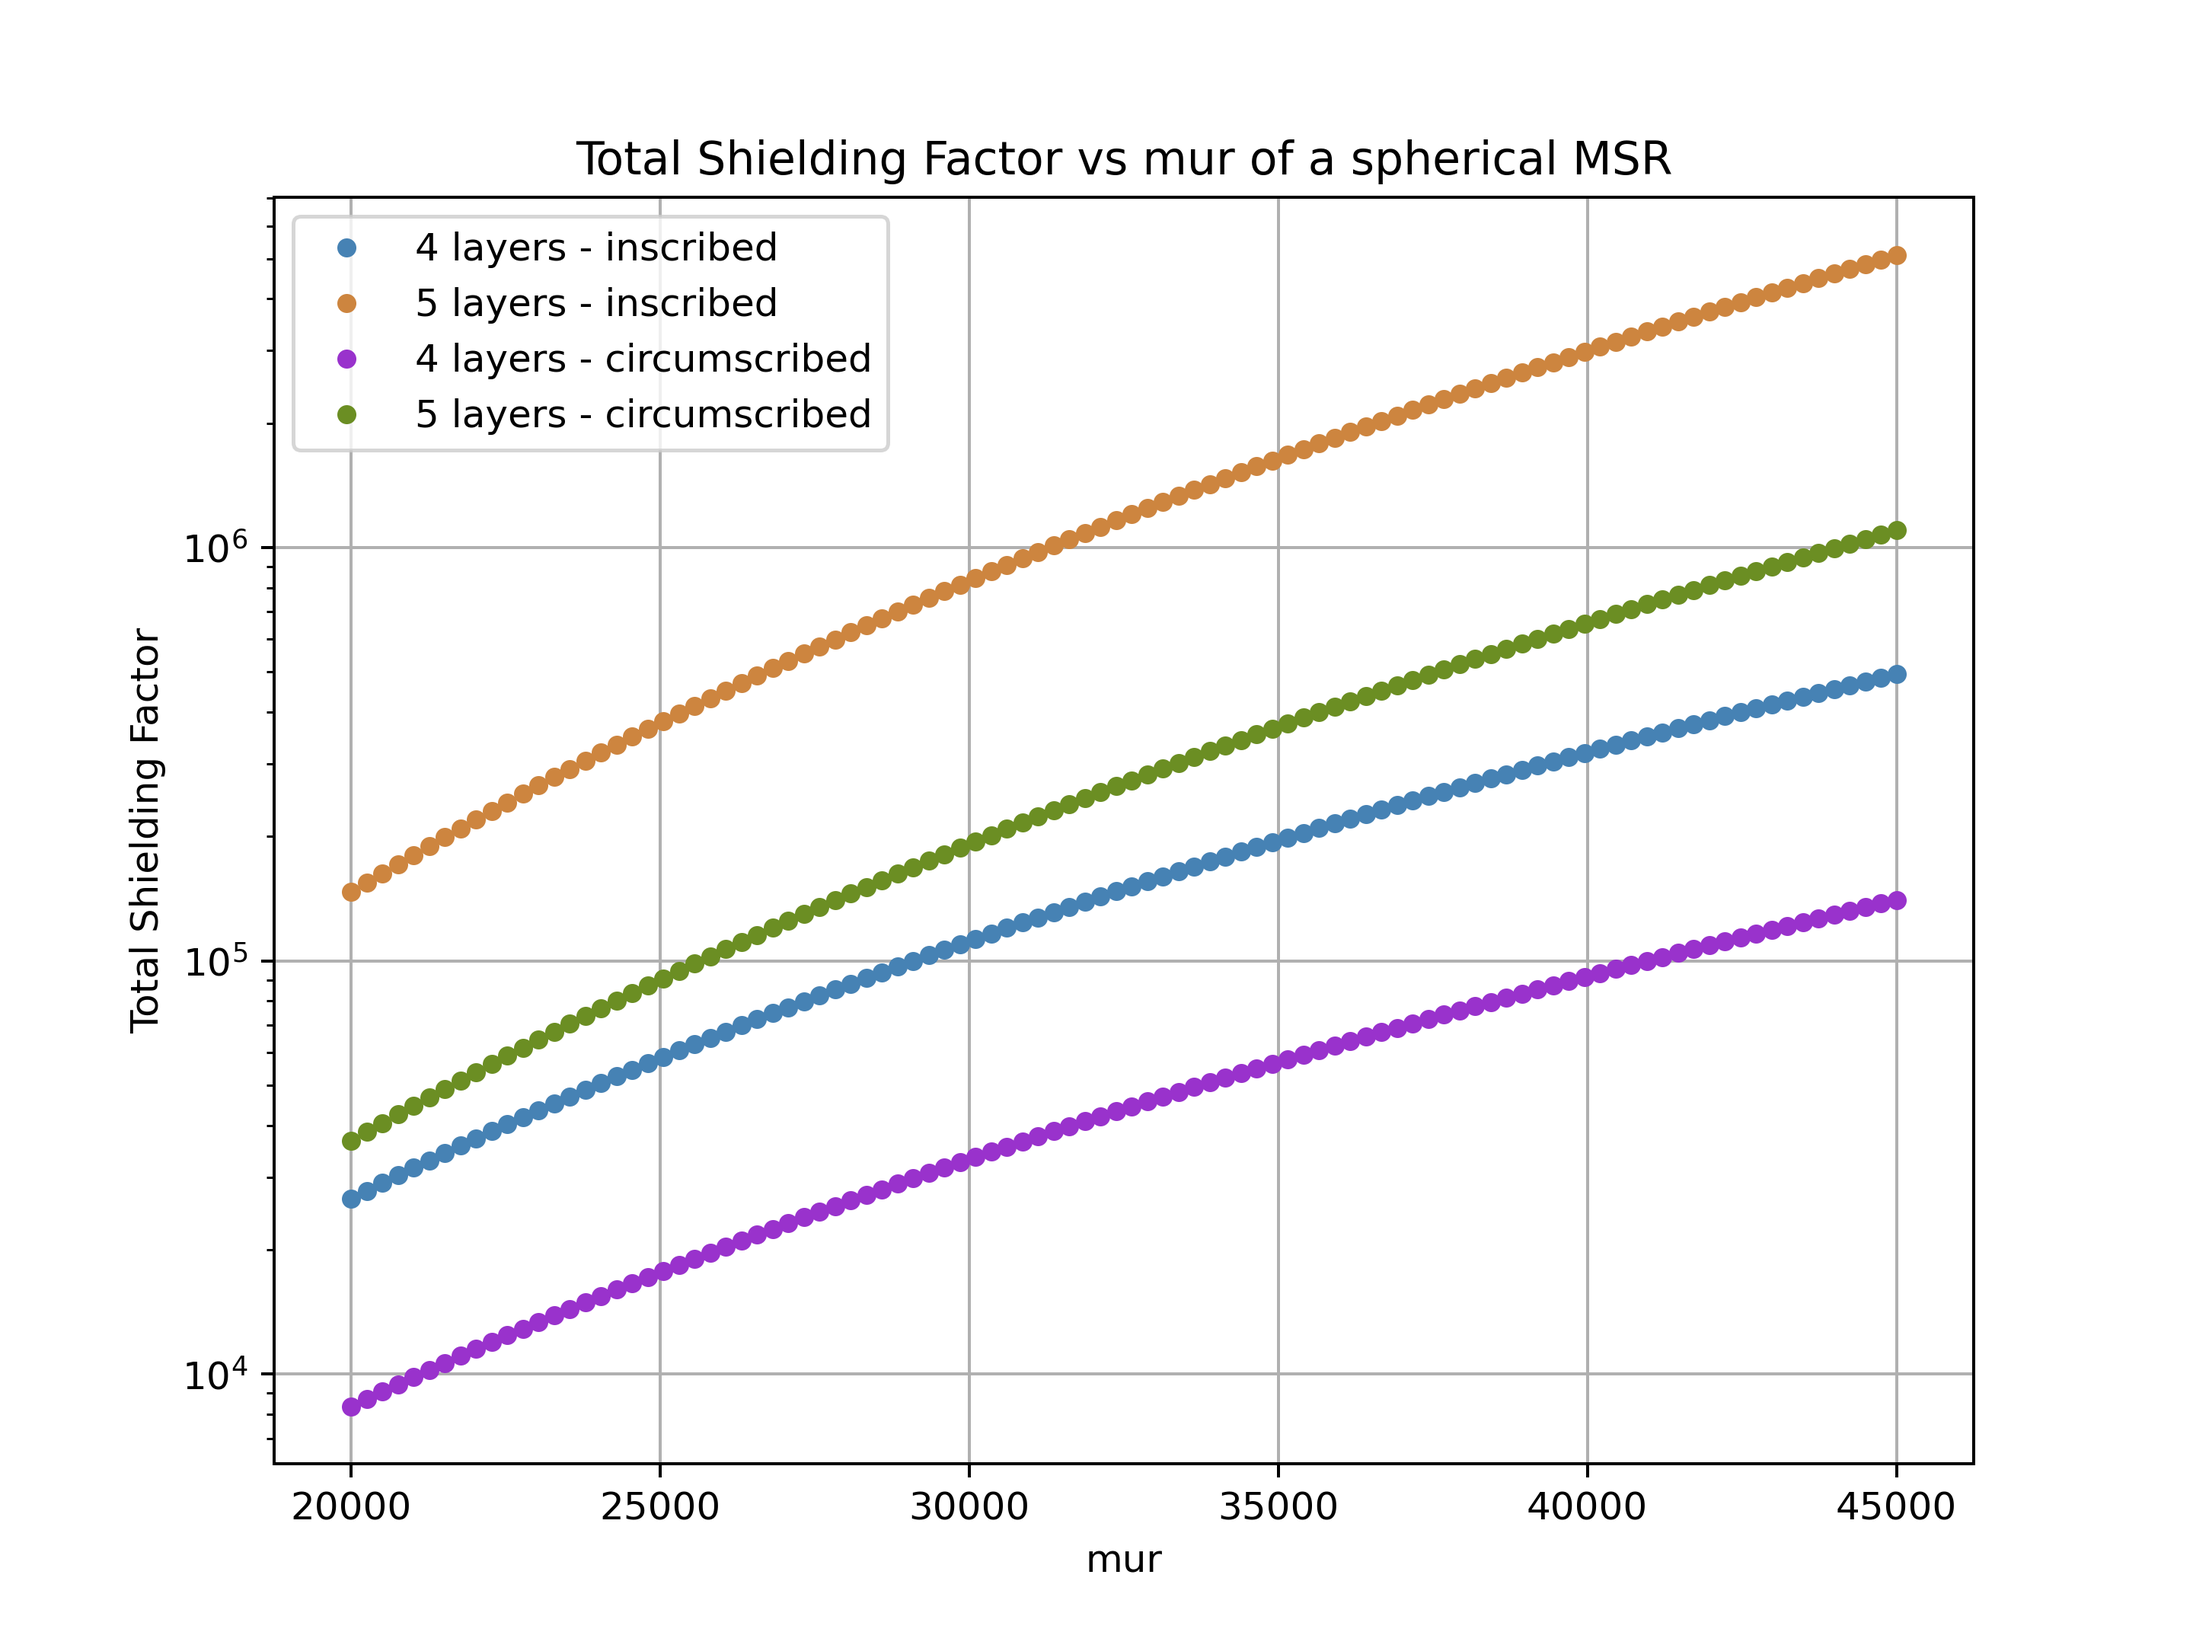
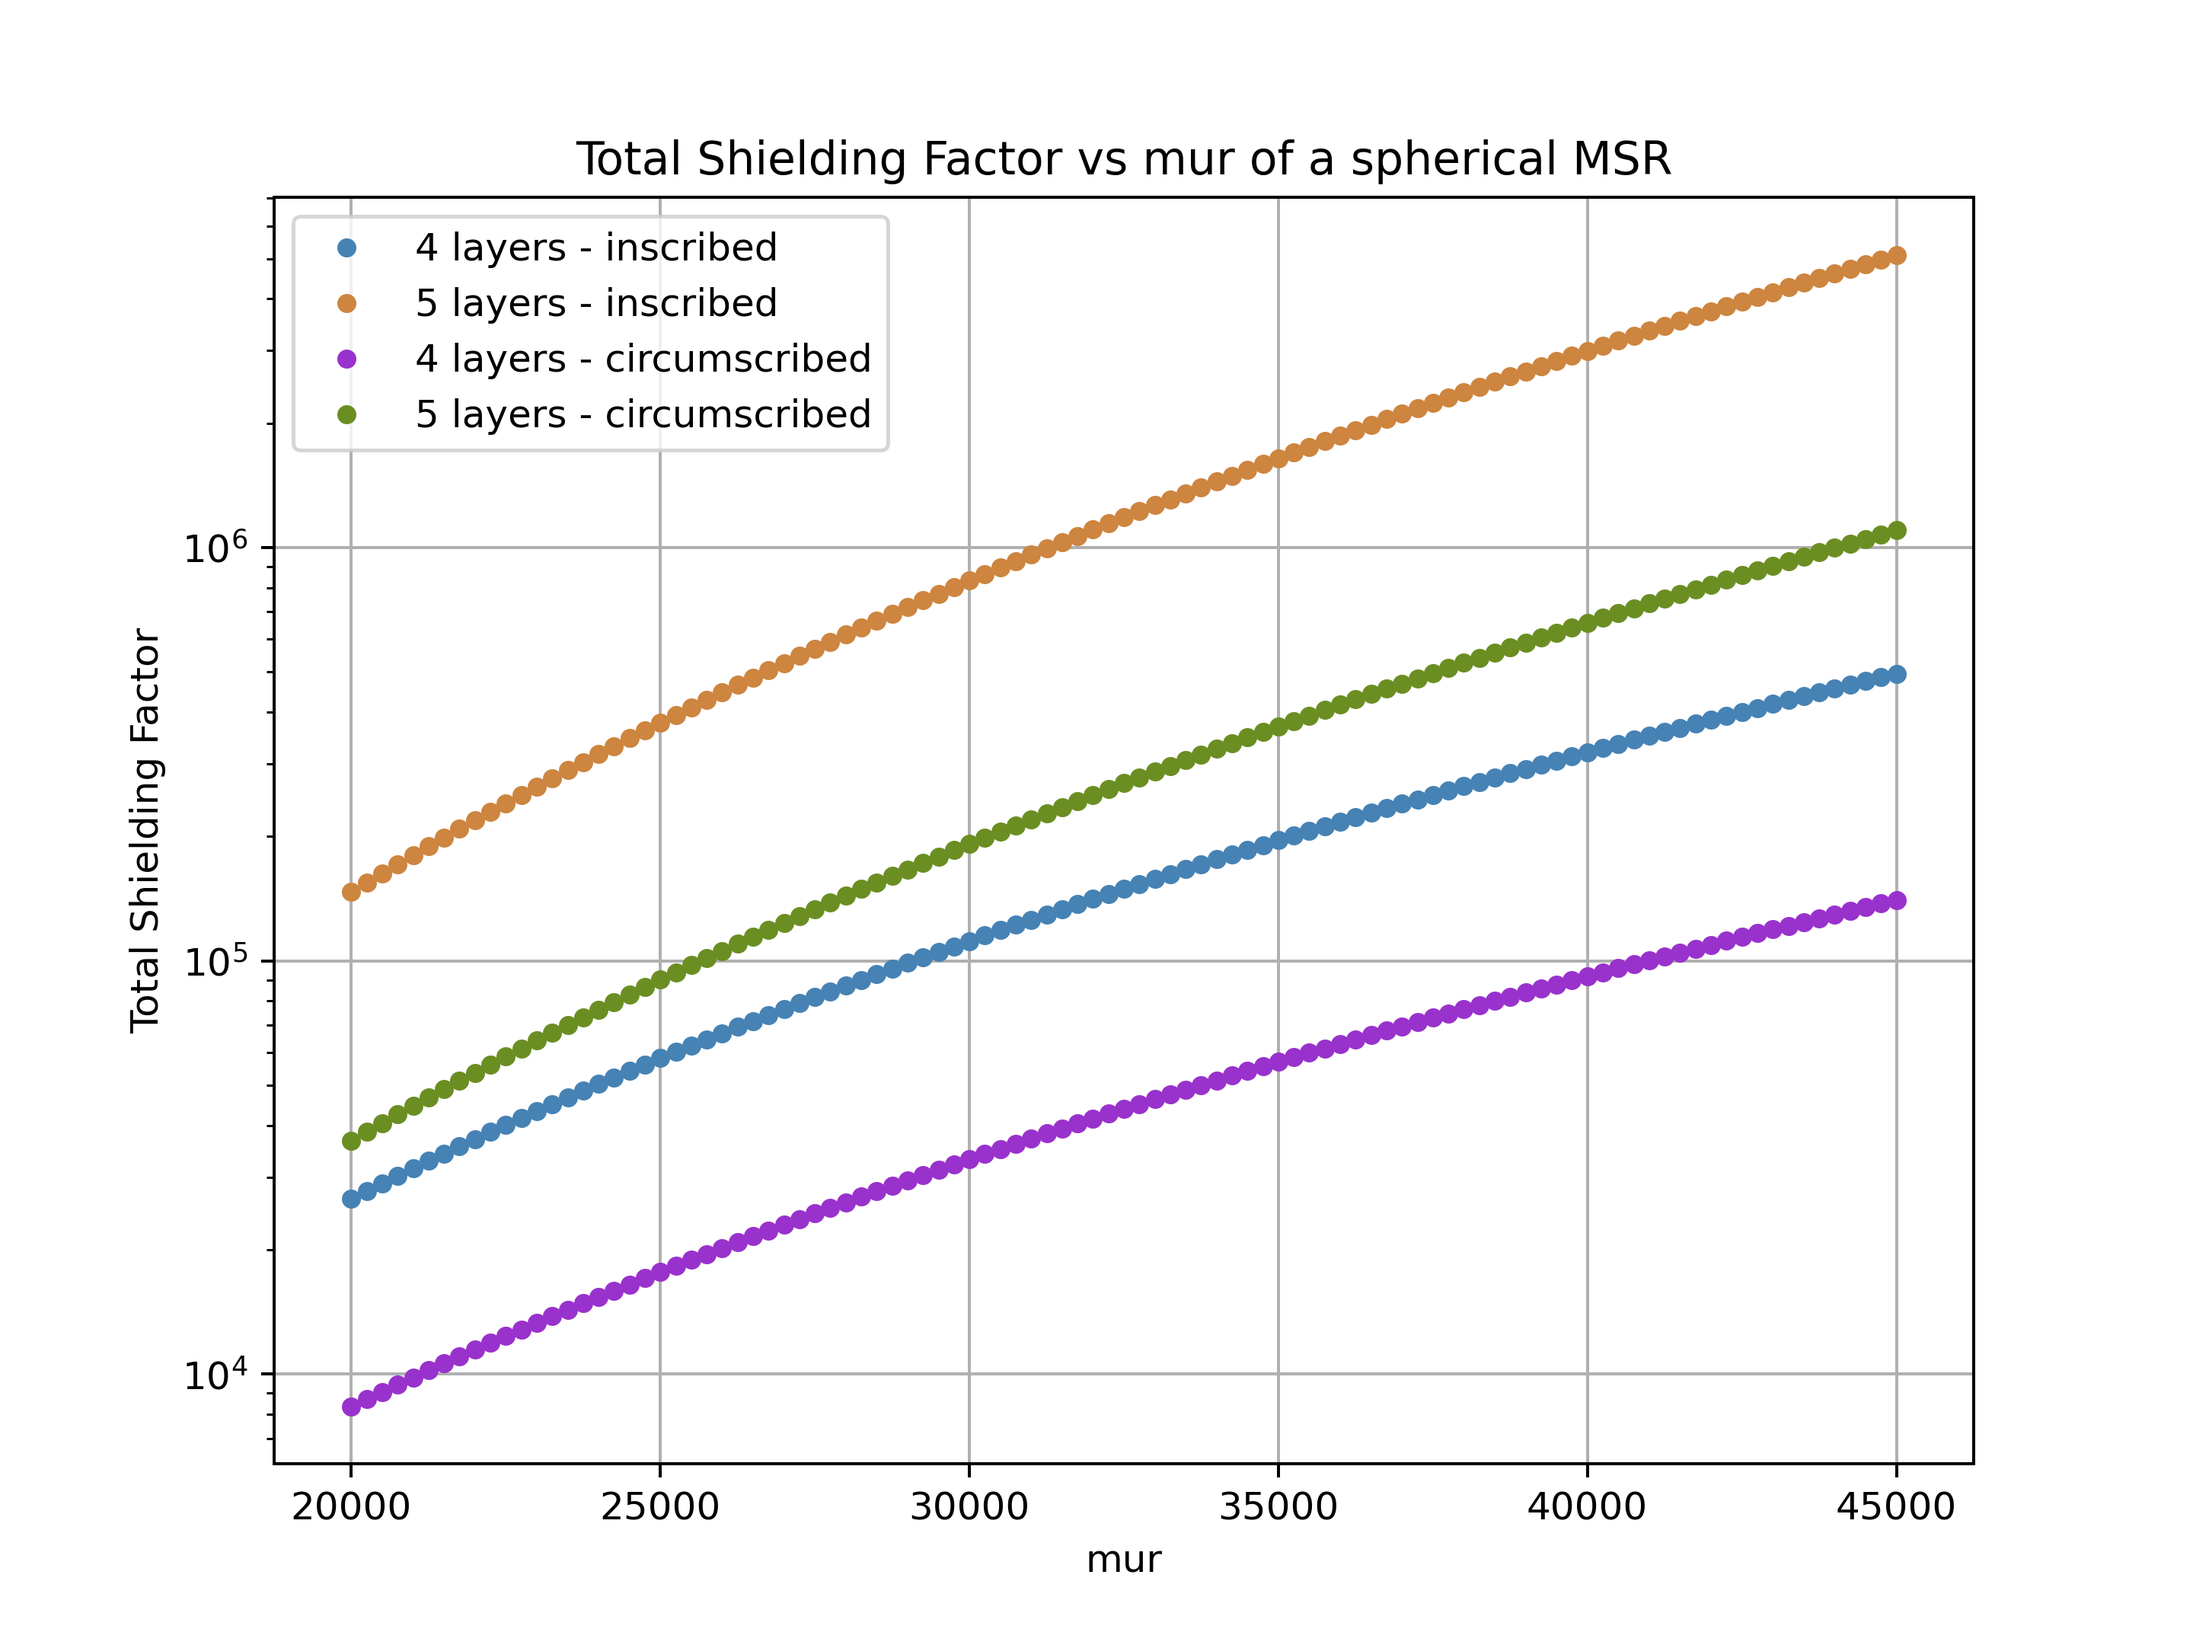
different mu for different layers added

diff --git a/SF_vs_mur_sphericalMSR_different_mu.py b/SF_vs_mur_sphericalMSR_different_mu.py
@@ -1,10 +1,3 @@
-# -*- coding: utf-8 -*-
-"""
-Created on Tue Jan 16 15:15:06 2024
-
-@author: UWTUCANMag
-"""
-
 import numpy as np
 from scipy.linalg import lu, solve
 import matplotlib.pyplot as plt
@@ -12,25 +5,30 @@ import os
 
 
 class MatrixSolver:
-    def __init__(self, capm, n, capr1, t, mur):
+    def __init__(self, capm, n, capr1, t, m1, m2):
         self.capm = capm
         self.rank = 2 * capm
         self.n = n
-        self.capr1 = capr1
-        self.t = t
-        self.mur = mur
+        self.m1 = m1
+        self.m2 = m2
         self.r = np.zeros(self.rank)
         self.a = np.zeros((self.rank, self.rank))
         self.inverse = np.zeros((self.rank, self.rank))
         self.sfact = None
+        self.capr1 = capr1
+        self.t = t
 
     def define_geometry(self):
+
+        self.mur = [self.m1] + [self.m2] * (self.capm - 1)
+
         j = 0
         for i in range(self.capm):
             self.r[j] = self.capr1[i]
             j += 1
             self.r[j] = self.capr1[i] + self.t[i]
             j += 1
+            print(f"{i}, {self.capr1[i]}, {self.t[i]}, {self.mur[i]}")
 
     def fill_matrix(self):
         for i in range(self.rank):
@@ -51,6 +49,8 @@ class MatrixSolver:
                         element = (
                             self.n * self.mur[m] + (self.n + 1)) / ((self.n + 1) * (self.mur[m] - 1))
                 self.a[i, j] = element
+                print(f"{element} ", end="")
+            print()
 
     def calculate_inverse(self):
         p, l, u = lu(self.a)
@@ -59,7 +59,6 @@ class MatrixSolver:
     def calculate_sfact(self):
         summat = np.sum(self.inverse, axis=1).sum()
         self.sfact = 1.0 / (1.0 + summat)
-        # print(f"SF {self.sfact}")
 
     def solve(self):
         self.define_geometry()
@@ -70,58 +69,60 @@ class MatrixSolver:
 
 
 if __name__ == "__main__":
+
     capm_i_4 = 4
+    capm_o_4 = 4
+    capm_i_5 = 5
+    capm_o_5 = 5
+
     capr1_i_4 = np.array([2.4 / 2, 2.6 / 2, 3.0 / 2, 3.5 / 2])
     t_4 = np.array([0.002, 0.003, 0.003, 0.004])
-    # mur_4 = np.array([40000] * capm_i_4)
 
-    capm_i_5 = 5
     capr1_i_5 = np.array([2.26 / 2, 2.4 / 2, 2.6 / 2, 3.0 / 2, 3.5 / 2])
     t_5 = np.array([0.002, 0.002, 0.003, 0.003, 0.004])
-    # mur_5 = np.array([40000] * capm_i_5)
 
-    capm_o_4 = 4
     capr1_o_4 = np.sqrt(2) * np.array([2.4 / 2, 2.6 / 2, 3.0 / 2, 3.5 / 2])
     t_4 = np.array([0.002, 0.003, 0.003, 0.004])
-    # mur_4 = np.array([40000] * capm_o_4)
 
-    capm_o_5 = 5
     capr1_o_5 = np.sqrt(
         2) * np.array([2.26 / 2, 2.4 / 2, 2.6 / 2, 3.0 / 2, 3.5 / 2])
     t_5 = np.array([0.002, 0.002, 0.003, 0.003, 0.004])
-    # mur_5 = np.array([40000] * capm_o_5)
+
+    start_0 = 50000
+    stop_0 = 70000
+
+    start_1 = 20000
+    stop_1 = 40000
+
+    # Create linspace arrays for m1 and m2
+    m1_range = np.linspace(start_0, stop_0, 101)  # Example: 5 points
+    m2_range = np.linspace(start_1, stop_1, 101)  # Example: 5 points
 
     # Plotting setup
     plt.figure(figsize=(8, 6))
 
-    # Plot for capm=4 (using navy color)
-    mur_values_4 = np.linspace(20000, 45000, 101)
-    plt.plot(mur_values_4, [MatrixSolver(capm_i_4, 1, capr1_i_4, t_4, np.array(
-        [mur_value] * capm_i_4)).solve() for mur_value in mur_values_4], 'o', markersize=4, color='steelblue')
+    plt.plot(m2_range, [MatrixSolver(capm_i_4, 1, capr1_i_4, t_4, m1_range, m2_range).solve() for m1_range, m2_range in zip(m1_range, m2_range)],
+             'o', markersize=4, color='steelblue')
 
-    # Plot for capm=5 (using orange color)
-    mur_values_5 = np.linspace(20000, 45000, 101)
-    plt.plot(mur_values_5, [MatrixSolver(capm_i_5, 1, capr1_i_5, t_5, np.array(
-        [mur_value] * capm_i_5)).solve() for mur_value in mur_values_5], 'o', markersize=4, color='peru')
+    plt.plot(m2_range, [MatrixSolver(capm_o_4, 1, capr1_o_4, t_4, m1_range, m2_range).solve() for m1_range, m2_range in zip(m1_range, m2_range)],
+             'o', markersize=4, color='peru')
 
-    # Plot for capm=4 (using navy color)
-    plt.plot(mur_values_4, [MatrixSolver(capm_o_4, 1, capr1_o_4, t_4, np.array(
-        [mur_value] * capm_o_4)).solve() for mur_value in mur_values_4], 'o', markersize=4, color='darkorchid')
+    plt.plot(m2_range, [MatrixSolver(capm_i_5, 1, capr1_i_5, t_5, m1_range, m2_range).solve() for m1_range, m2_range in zip(m1_range, m2_range)],
+             'o', markersize=4, color='darkorchid')
 
-    # Plot for capm=5 (using orange color)
-    plt.plot(mur_values_5, [MatrixSolver(capm_o_5, 1, capr1_o_5, t_5, np.array(
-        [mur_value] * capm_o_5)).solve() for mur_value in mur_values_5], 'o', markersize=4, color='olivedrab')
+    plt.plot(m2_range, [MatrixSolver(capm_o_5, 1, capr1_o_5, t_5, m1_range, m2_range).solve() for m1_range, m2_range in zip(m1_range, m2_range)],
+             'o', markersize=4, color='olivedrab')
 
-    plt.xlabel('mur')
+    plt.xlabel('m1')
     plt.ylabel('Total Shielding Factor')
     plt.yscale('log')
-    plt.legend(['4 layers - inscribed', '5 layers - inscribed',
-               '4 layers - circumscribed', '5 layers - circumscribed'])
+    plt.legend(['4 layers - inscribed', '4 layers - circumscribed',
+               '5 layers - inscribed', '5 layers - circumscribed'])
     plt.grid()
-    plt.title(
-        'Total Shielding Factor vs mur of a spherical MSR')
+    plt.title('Total Shielding Factor vs m1 of a spherical MSR')
     plt.show()
+
     output_folder = "Figures"
     os.makedirs(output_folder, exist_ok=True)
-    output_file_path = os.path.join(output_folder, "SF_vs_mur_sphere.png")
+    output_file_path = os.path.join(output_folder, "SF_vs_m1_sphered.png")
     plt.savefig(output_file_path, dpi=360)

diff --git a/invert_five_layers.py b/invert_five_layers.py
@@ -1,0 +1,105 @@
+import numpy as np
+from scipy.linalg import lu, solve
+import matplotlib.pyplot as plt
+import os
+
+class MatrixSolver:
+    def __init__(self, capm, n, capr1, t, mur):
+        self.capm = capm
+        self.rank = 2 * capm
+        self.n = n
+        self.capr1 = capr1
+        self.t = t
+        self.mur = mur
+        self.r = np.zeros(self.rank)
+        self.a = np.zeros((self.rank, self.rank))
+        self.inverse = np.zeros((self.rank, self.rank))
+        self.sfact = None
+
+    def define_geometry(self):
+        j = 0
+        for i in range(self.capm):
+            self.r[j] = self.capr1[i]
+            j += 1
+            self.r[j] = self.capr1[i] + self.t[i]
+            j += 1
+
+    def fill_matrix(self):
+        for i in range(self.rank):
+            for j in range(self.rank):
+                if j < i:
+                    element = (self.r[j] / self.r[i]) ** (2 * self.n)
+                elif j > i:
+                    element = -1
+                else:
+                    if (i + 1) % 2 == 1:
+                        m = ((i + 1) + 1) // 2 - 1
+                        element = -(self.mur[m] + 1) / (self.mur[m] - 1)
+                    else:
+                        m = (i + 1) // 2 - 1
+                        element = (self.mur[m] + 1) / (self.mur[m] - 1)
+                self.a[i, j] = element
+
+    def calculate_inverse(self):
+        p, l, u = lu(self.a)
+        self.inverse = solve(u, solve(l, p.T))
+
+    def calculate_sfact(self):
+        summat = np.sum(self.inverse, axis=1).sum()
+        self.sfact = 1.0 / (1.0 + summat)
+
+    def solve(self):
+        self.define_geometry()
+        self.fill_matrix()
+        self.calculate_inverse()
+        self.calculate_sfact()
+        return self.sfact
+
+if __name__ == "__main__":
+    capm = 5
+    n = 1
+    capr1 = np.array([2.26 / 2, 2.4 / 2, 2.6 / 2, 3.0 / 2, 3.5 / 2])
+    t = np.array([0.002, 0.002, 0.003, 0.003, 0.004])
+    mur_values = np.linspace(20000, 50000, 300)
+
+    # Initialize MatrixSolver object
+    matrix_solver = MatrixSolver(capm, n, capr1, t, mur_values)
+
+    # Calculate sfact for each mur value
+    sfact_values = []
+    for mur in mur_values:
+        matrix_solver.mur.fill(mur)  # update mur values
+        sfact = matrix_solver.solve()
+        sfact_values.append(sfact)
+
+    # Print inverse matrix and other results
+    rank = 2 * capm
+    for i in range(rank):
+        for j in range(rank):
+            print(f"{matrix_solver.a[i, j]} ", end="")
+        print()
+
+    print("Inverse")
+
+    # Make LU decomposition of matrix m
+    p, l, u = lu(matrix_solver.a)
+
+    # Invert the matrix m
+    inverse = solve(u, solve(l, p.T))
+
+    for i in range(rank):
+        for j in range(rank):
+            print(f"{inverse[i, j]} ", end="")
+        print()
+
+    # Act on vector of 1's
+    summat = 0
+    for i in range(rank):
+        sumrow = np.sum(inverse[i, :])
+        print(f"{i} sumrow {sumrow}")
+        summat += sumrow
+
+    print(f"summat {summat}")
+
+    sfact = 1.0 / (1.0 + summat)
+    print(f"sfact {sfact}")

diff --git a/invert_fourlayer_msl.py b/invert_fourlayer_msl.py
@@ -38,9 +38,12 @@ t[1] = 0.003  # m
 t[2] = 0.003  # m
 t[3] = 0.004  # m
 
-for i in range(capm):
+mur[0] = 50000
+i = 1
+while i < capm:
     mur[i] = 20000
-# mur[0] = 50000
+    i += 1
+        
 
 for i in range(capm):
     print(f"{i} {capr1[i]} {t[i]} {mur[i]}")

diff --git a/SF_vs_mur_cylindricalMSR.py b/SF_vs_mur_cylindricalMSR.py
@@ -63,6 +63,7 @@ class MatrixSolver:
     def calculate_sfact(self):
         summat = np.sum(self.inverse, axis=1).sum()
         self.sfact = 1.0 / (1.0 + summat)
+        # print(f"SF {self.sfact}")
 
     def solve(self):
         self.define_geometry()

diff --git a/invert_five_layers_msl.py b/invert_five_layers_msl.py
@@ -40,9 +40,9 @@ t[2] = 0.003  # m
 t[3] = 0.003  # m
 t[4] = 0.004  # m
 
-mur.fill(20000)
-# mur[0] = 50000
-# mur[1] = 50000
+# mur.fill(20000)
+mur[0] = 50000
+mur[1] = 50000
 
 for i in range(capm):
     print(i, capr1[i], t[i], mur[i])
